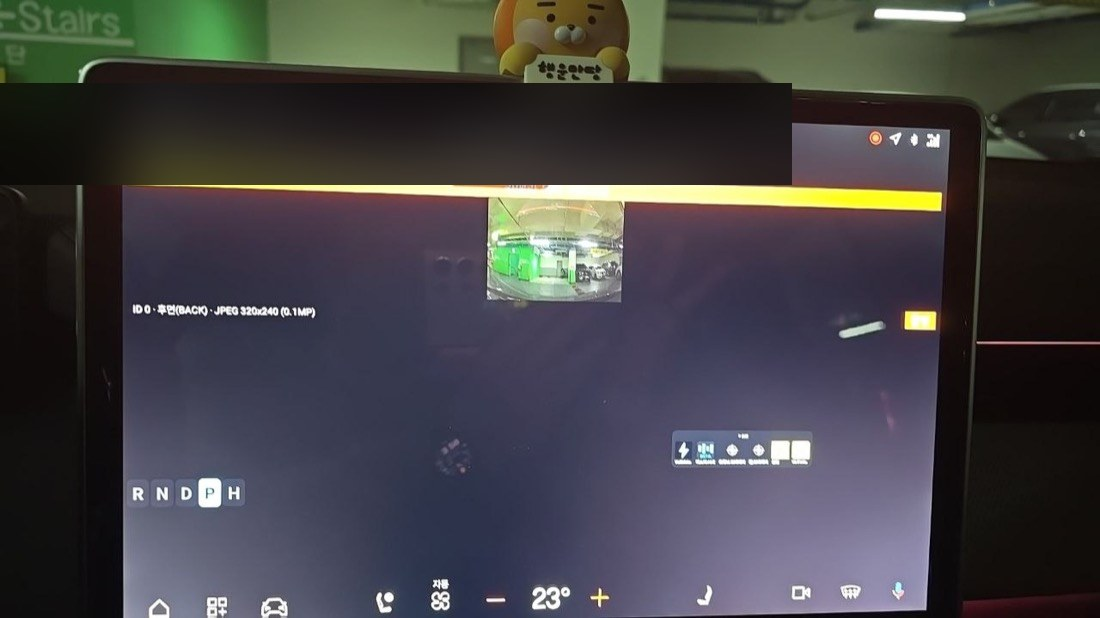
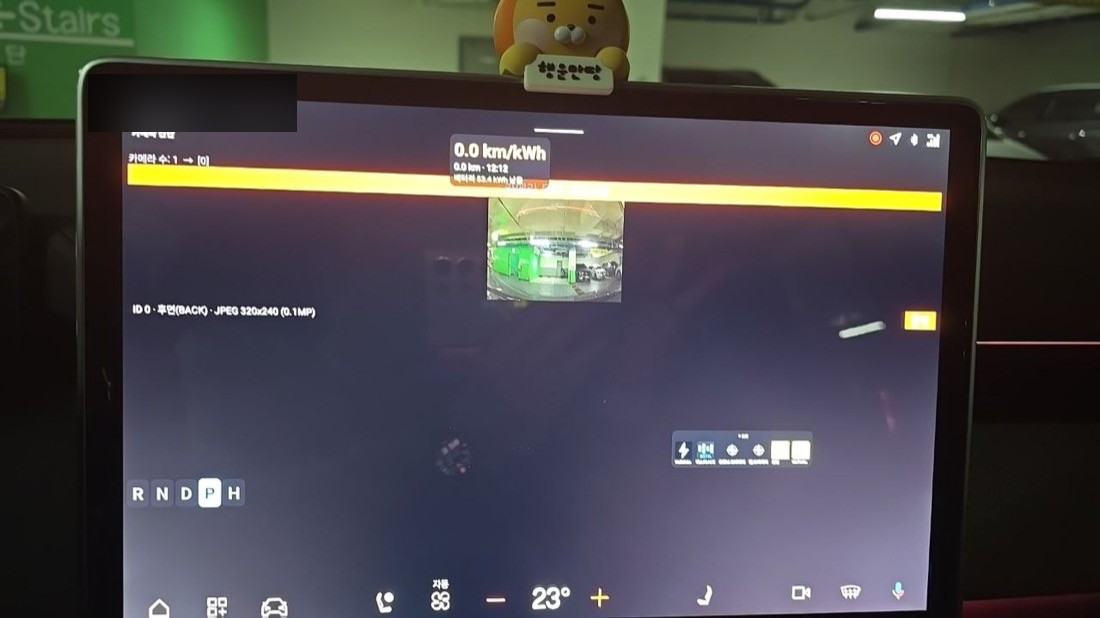
앱별 확대 컷 추가 + trip/parksnap 이름 좁게 재처리

Changed region(s): [[0.0, 0.123, 0.7418, 0.3074], [0.5873, 0.123, 0.7418, 0.1537]]

diff --git a/docs/01-projects/07-park-snap.html b/docs/01-projects/07-park-snap.html
@@ -67,6 +67,7 @@
 <li><strong>텔레그램 실패 3연타</strong>: ①봇과 대화 미시작(chat not found) ②차에서 토큰 오타(401) ③캡션 UTF-8 깨짐(400)</li>
 </ul>
 <h2>스크린샷</h2>
+<p><img alt="주차 스냅샷 오버레이 확대" src="../assets/img/parksnap-zoom.jpg"></p>
 <p><img alt="차량 카메라 촬영 성공(진단)" src="../assets/img/parksnap-cam.jpg"></p>
 <p><img alt="텔레그램 전송 성공" src="../assets/img/parksnap-tg1.jpg"></p>
 <p><img alt="주차 위치(지도)까지 전송" src="../assets/img/parksnap-tg2.jpg"></p></main></div>

diff --git a/docs/01-projects/04-youtube.html b/docs/01-projects/04-youtube.html
@@ -70,6 +70,7 @@
 <li><code>MATCH_PARENT</code> 창은 <code>lp.y</code>를 무시 → 전체화면 여백은 <strong>창 안쪽 topMargin</strong>으로 조절</li>
 </ul>
 <h2>스크린샷</h2>
+<p><img alt="유튜브 오버레이 확대" src="../assets/img/youtube-zoom.jpg"></p>
 <p><img alt="유튜브 오버레이 - 재생" src="../assets/img/youtube-1.jpg"></p>
 <p><img alt="유튜브 오버레이 - 내비 위" src="../assets/img/youtube-2.jpg"></p>
 <p><img alt="유튜브 전체화면" src="../assets/img/youtube-4.jpg"></p>

diff --git a/docs/01-projects/02-trip.html b/docs/01-projects/02-trip.html
@@ -63,6 +63,7 @@
 <li>전비 = 주행거리 ÷ 사용 전력, 정차 중엔 공조 전력만 소모되어 낮게 나옴</li>
 </ul>
 <h2>스크린샷</h2>
-<p><img alt="전비 오버레이" src="../assets/img/trip-1.jpg"></p></main></div>
+<p><img alt="전비 오버레이 확대" src="../assets/img/trip-zoom.jpg"></p>
+<p><img alt="전비 오버레이 전체 화면" src="../assets/img/trip-1.jpg"></p></main></div>
 <footer class="foot">© 2026 jangbc's AI life · 지니(Genie)와 함께 만든 기록</footer>
 </body></html>

diff --git a/docs/01-projects/05-web.html b/docs/01-projects/05-web.html
@@ -69,6 +69,7 @@
 <tr><td>쿠팡플레이</td><td>❌ 재생 불원활</td></tr>
 </tbody></table>
 <h2>스크린샷</h2>
+<p><img alt="웹 오버레이 확대" src="../assets/img/web-zoom.jpg"></p>
 <p><img alt="웹 오버레이 - 넷플릭스 DRM 오류" src="../assets/img/web-1.jpg"></p></main></div>
 <footer class="foot">© 2026 jangbc's AI life · 지니(Genie)와 함께 만든 기록</footer>
 </body></html>

diff --git a/content/01-projects/07-park-snap.md b/content/01-projects/07-park-snap.md
@@ -25,6 +25,8 @@ title: 주차 스냅샷
 - **텔레그램 실패 3연타**: ①봇과 대화 미시작(chat not found) ②차에서 토큰 오타(401) ③캡션 UTF-8 깨짐(400)
 
 ## 스크린샷
+![주차 스냅샷 오버레이 확대](../assets/img/parksnap-zoom.jpg)
+
 ![차량 카메라 촬영 성공(진단)](../assets/img/parksnap-cam.jpg)
 
 ![텔레그램 전송 성공](../assets/img/parksnap-tg1.jpg)

diff --git a/content/01-projects/04-youtube.md b/content/01-projects/04-youtube.md
@@ -27,6 +27,8 @@ title: 유튜브 오버레이
 - `MATCH_PARENT` 창은 `lp.y`를 무시 → 전체화면 여백은 **창 안쪽 topMargin**으로 조절
 
 ## 스크린샷
+![유튜브 오버레이 확대](../assets/img/youtube-zoom.jpg)
+
 ![유튜브 오버레이 - 재생](../assets/img/youtube-1.jpg)
 
 ![유튜브 오버레이 - 내비 위](../assets/img/youtube-2.jpg)

diff --git a/content/01-projects/02-trip.md b/content/01-projects/02-trip.md
@@ -21,4 +21,6 @@ title: 전비 오버레이
 - 전비 = 주행거리 ÷ 사용 전력, 정차 중엔 공조 전력만 소모되어 낮게 나옴
 
 ## 스크린샷
-![전비 오버레이](../assets/img/trip-1.jpg)
+![전비 오버레이 확대](../assets/img/trip-zoom.jpg)
+
+![전비 오버레이 전체 화면](../assets/img/trip-1.jpg)

diff --git a/content/01-projects/05-web.md b/content/01-projects/05-web.md
@@ -29,4 +29,6 @@ title: 웹 오버레이
 | 쿠팡플레이 | ❌ 재생 불원활 |
 
 ## 스크린샷
+![웹 오버레이 확대](../assets/img/web-zoom.jpg)
+
 ![웹 오버레이 - 넷플릭스 DRM 오류](../assets/img/web-1.jpg)
